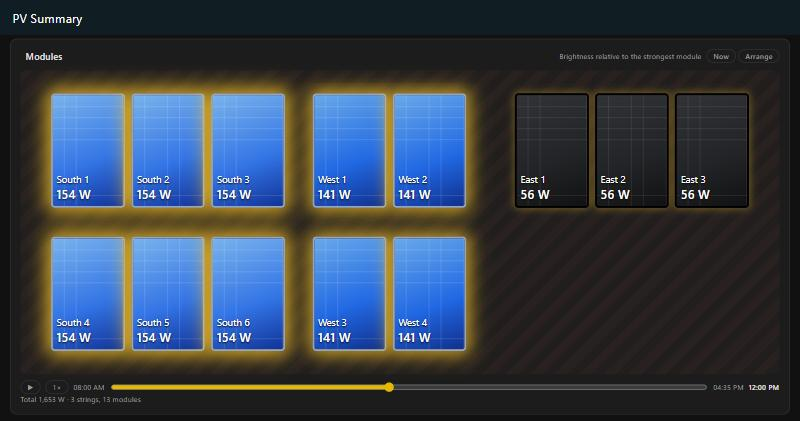
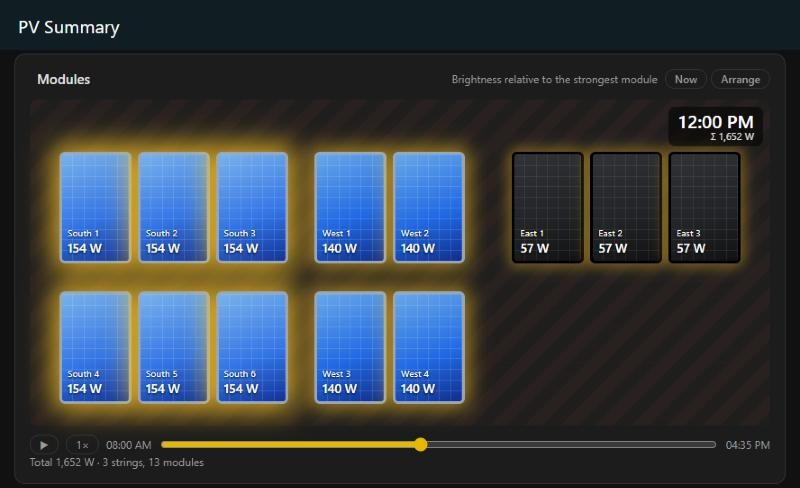
v1.19.2: time badge in the module view

diff --git a/custom_components/pv_overview/frontend/pv-summary-panel.js b/custom_components/pv_overview/frontend/pv-summary-panel.js
@@ -108,7 +108,11 @@ const STYLE = `
   .modtile .mrot { position:absolute; top:3px; right:5px; font-size:1.25em; cursor:pointer; text-shadow:0 1px 3px #000; }
   .modbar { display:flex; align-items:center; gap:8px; margin-top:10px; font-size:12px; }
   .modbar input[type=range] { flex:1; min-width:80px; accent-color:${SUN_COLOR}; }
-  .modbar .modtm { min-width:44px; text-align:right; font-weight:500; }
+  .modclock { position:absolute; top:8px; right:8px; z-index:2; display:flex; flex-direction:column; align-items:flex-end; padding:4px 10px; border-radius:8px; background:rgba(0,0,0,.55); color:#fff; pointer-events:none; line-height:1.15; }
+  .modclock .modtm { font-size:20px; font-weight:600; font-variant-numeric:tabular-nums; }
+  .modclock .modtm.live::before { content:""; display:inline-block; width:8px; height:8px; border-radius:50%; background:#e24b4a; margin-right:6px; vertical-align:middle; }
+  .modclock .modtot { font-size:11px; opacity:.85; font-variant-numeric:tabular-nums; }
+  @media (max-width:500px) { .modclock { top:6px; right:6px; padding:3px 8px; } .modclock .modtm { font-size:15px; } .modclock .modtot { font-size:10px; } }
   .modcard h3 .navbtns { flex-wrap:wrap; }
   .eurv { color:var(--secondary-text-color); font-size:12px; margin-left:8px; }
   .hm-wrap { position:relative; }
@@ -1950,9 +1954,9 @@ class PVSummaryPanel extends HTMLElement {
     const playing = !!this._modTimer;
     const time = (ms) => fmtTime(ms);
     return `<div class="card modcard"><h3><ha-icon icon="mdi:solar-panel"></ha-icon>${TT("Module", "Modules")}<span class="hint modmode"></span>${btns}</h3>
-      <div class="modroof-wrap${edit ? " edit" : ""}"><div class="modroof${edit ? " edit" : " fit"}" data-h="${H.toFixed(4)}"${edit ? ` style="aspect-ratio:1 / ${H.toFixed(4)};background-size:5% ${(5 / H).toFixed(3)}%"` : ""}>${roof}</div></div>
+      <div class="modroof-wrap${edit ? " edit" : ""}"><div class="modroof${edit ? " edit" : " fit"}" data-h="${H.toFixed(4)}"${edit ? ` style="aspect-ratio:1 / ${H.toFixed(4)};background-size:5% ${(5 / H).toFixed(3)}%"` : ""}>${roof}${edit ? "" : `<div class="modclock"><b class="modtm"></b><span class="modtot"></span></div>`}</div></div>
       <div class="modbar"><button class="navbtn" data-nav="mod-play" title="${TT("Tag abspielen", "Play the day")}">${playing ? "❚❚" : "▶"}</button><button class="navbtn modspeed" data-nav="mod-speed" title="${TT("Tempo beim Abspielen", "Playback speed")}">${fmt(this._modSpeed, this._modSpeed < 0.5 ? 2 : this._modSpeed < 1 ? 1 : 0)}×</button>
-        <span class="muted">${time(a)}</span><input type="range" class="modsl" min="${a}" max="${b}" step="${5 * 60000}" value="${this._modT ?? b}"><span class="muted">${time(b)}</span><b class="modtm"></b></div>
+        <span class="muted">${time(a)}</span><input type="range" class="modsl" min="${a}" max="${b}" step="${5 * 60000}" value="${this._modT ?? b}"><span class="muted">${time(b)}</span></div>
       <div class="muted modsum" style="font-size:12px"></div></div>`;
   }
 
@@ -1985,7 +1989,12 @@ class PVSummaryPanel extends HTMLElement {
       el.querySelector(".mv").textContent = fmtW(vals[i]);
     });
     const total = Object.values(pow).reduce((x, y) => x + y, 0);
-    card.querySelector(".modtm").textContent = live ? TT("live", "live") : this._modT !== null ? fmtTime(this._modT) : "";
+    const tm = card.querySelector(".modtm");
+    if (tm) {
+      tm.textContent = live ? TT("live", "live") : this._modT !== null ? fmtTime(this._modT) : "";
+      tm.classList.toggle("live", !!live);
+      card.querySelector(".modtot").textContent = `Σ ${fmtW(total)}`;
+    }
     const sl = card.querySelector(".modsl");
     if (sl && this._modT !== null) sl.value = this._modT;
     const liveBtn = card.querySelector(".modlive");
@@ -2023,9 +2032,13 @@ class PVSummaryPanel extends HTMLElement {
     const maxW = Math.max(...d.map((t) => t.w));
     const scale = Math.min((0.92 / bw) * W, (0.22 / maxW) * W, 180 / maxW);
     const pad = Math.max(12, W * 0.03);
-    roof.style.minHeight = `${Math.round(bh * scale + 2 * pad)}px`;
+    // Oben Platz für die Zeitplakette nur, wenn die (mittig gesetzten) Kacheln bis unter sie reichen würden
+    const clock = roof.querySelector(".modclock");
+    const reach = (W + bw * scale) / 2, clockLeft = clock ? W - 8 - clock.offsetWidth - 6 : W;
+    const top = pad + (clock && reach > clockLeft ? Math.max(0, clock.offsetHeight + 14 - pad) : 0);
+    roof.style.minHeight = `${Math.round(bh * scale + top + pad)}px`;
     const H = roof.clientHeight;
-    const offX = (W - bw * scale) / 2 - minX * scale, offY = (H - bh * scale) / 2 - minY * scale;
+    const offX = (W - bw * scale) / 2 - minX * scale, offY = top + (H - top - pad - bh * scale) / 2 - minY * scale;
     for (const t of d) {
       Object.assign(t.el.style, { left: `${(offX + t.x * scale).toFixed(1)}px`, top: `${(offY + t.y * scale).toFixed(1)}px`, width: `${(t.w * scale).toFixed(1)}px`, height: `${(t.h * scale).toFixed(1)}px` });
       font(t.el, Math.min(t.w, t.h) * scale);

diff --git a/custom_components/pv_overview/const.py b/custom_components/pv_overview/const.py
@@ -17,7 +17,7 @@ CONF_PRICE_EXPORT = "price_export"  # Einspeisevergütung je kWh
 CONF_INVESTMENT = "investment"  # Anschaffungskosten der Anlage
 
 # Eigenes Dashboard (Panel in der Seitenleiste)
-VERSION = "1.19.1"
+VERSION = "1.19.2"
 # Eigene Adresse, damit sie nicht mit einem Lovelace-Dashboard "pv-summary" kollidiert
 PANEL_URL = "pv-summary-panel"
 STATIC_URL = "/pv_summary_static"

diff --git a/README.de.md b/README.de.md
@@ -127,7 +127,7 @@ Die Integration bringt ihr eigenes Dashboard mit. Es erscheint nach dem Einricht
 
   <img src="https://raw.githubusercontent.com/berwil84afk/ha-pv-summary/main/docs/strings.jpg" alt="Tab Strings mit gestapelter Leistung je String" width="640">
 
-- **Module** (unten im Tab Strings): Jedes Modul erscheint als Kachel im Look eines Solarmoduls, die umso heller leuchtet, je mehr Leistung es bringt. Ein String mit mehreren Modulen bekommt eine Kachel je Modul, jede zeigt ihren Anteil an der Leistung des Strings. Die Kacheln haben die Proportionen eines üblichen Moduls (1.134 × 1.762 mm) und in beiden Modulfarben ein feines Zellraster; mit steigender Leistung werden blaue Kacheln von dunkel- zu hellblau und Full-Black-Kacheln von schwarz zu anthrazit, dazu kommt der gelbe Schein. Die Helligkeit richtet sich nach dem stärksten Modul, beim Anordnen umschaltbar auch je String nach seinem eigenen Tageshöchstwert oder für alle Module nach dem höchsten Modulwert des ganzen Tages (beim Abspielen sieht man den Tag so aufgehen und abklingen). Ein Schieber durchläuft den oben gewählten Tag (Sonnenaufgang bis -untergang), ▶ spielt ihn mit 0,25×, 0,5×, 1×, 2× oder 4× Tempo ab (der Knopf daneben schaltet das Tempo um, der Browser merkt es sich), und eine Linie in „Leistung je String“ markiert die gewählte Uhrzeit; **Jetzt** springt zurück zu den Live-Werten. Administratoren ziehen die Kacheln über **Anordnen** so hin, wie sie auf dem Dach liegen, und drehen sie; die Anordnung wird in Home Assistant gespeichert und gilt auf allen Geräten. In der normalen Ansicht wird die Anordnung so vergrößert, dass sie die Karte ausfüllt, und mittig gesetzt, sie passt damit auch in eine halb breite Karte oder aufs Handy; beim Anordnen siehst du sie in echter Größe auf einem Raster, das ab 600 Pixeln Höhe scrollt. Ein Klick auf eine Kachel öffnet den Verlauf ihres Strings.
+- **Module** (unten im Tab Strings): Jedes Modul erscheint als Kachel im Look eines Solarmoduls, die umso heller leuchtet, je mehr Leistung es bringt. Ein String mit mehreren Modulen bekommt eine Kachel je Modul, jede zeigt ihren Anteil an der Leistung des Strings. Die Kacheln haben die Proportionen eines üblichen Moduls (1.134 × 1.762 mm) und in beiden Modulfarben ein feines Zellraster; mit steigender Leistung werden blaue Kacheln von dunkel- zu hellblau und Full-Black-Kacheln von schwarz zu anthrazit, dazu kommt der gelbe Schein. Die Helligkeit richtet sich nach dem stärksten Modul, beim Anordnen umschaltbar auch je String nach seinem eigenen Tageshöchstwert oder für alle Module nach dem höchsten Modulwert des ganzen Tages (beim Abspielen sieht man den Tag so aufgehen und abklingen). Ein Schieber durchläuft den oben gewählten Tag (Sonnenaufgang bis -untergang), ▶ spielt ihn mit 0,25×, 0,5×, 1×, 2× oder 4× Tempo ab (der Knopf daneben schaltet das Tempo um, der Browser merkt es sich), und eine Linie in „Leistung je String“ markiert die gewählte Uhrzeit. Eine Plakette oben rechts in der Modulfläche zeigt diese Uhrzeit (oder „live“) samt der Summe aller Module, so bleibt sie beim Abspielen im Blick; **Jetzt** springt zurück zu den Live-Werten. Administratoren ziehen die Kacheln über **Anordnen** so hin, wie sie auf dem Dach liegen, und drehen sie; die Anordnung wird in Home Assistant gespeichert und gilt auf allen Geräten. In der normalen Ansicht wird die Anordnung so vergrößert, dass sie die Karte ausfüllt, und mittig gesetzt, sie passt damit auch in eine halb breite Karte oder aufs Handy; beim Anordnen siehst du sie in echter Größe auf einem Raster, das ab 600 Pixeln Höhe scrollt. Ein Klick auf eine Kachel öffnet den Verlauf ihres Strings.
 
   <img src="https://raw.githubusercontent.com/berwil84afk/ha-pv-summary/main/docs/modules.jpg" alt="Modulansicht mit leuchtenden Modulkacheln und Zeitschieber" width="640">
 

diff --git a/README.md b/README.md
@@ -127,7 +127,7 @@ The integration brings its own dashboard. After setup it appears automatically a
 
   <img src="https://raw.githubusercontent.com/berwil84afk/ha-pv-summary/main/docs/strings.jpg" alt="Strings tab with stacked power per string" width="640">
 
-- **Modules** (at the bottom of the Strings tab): every module is shown as a solar panel tile that gets lighter and glows more the more power it delivers. A string with several modules gets one tile per module, each showing its share of the string power. Tiles have the proportions of a common module (1,134 × 1,762 mm) and, in both module colours, a fine cell grid; blue tiles go from dark to light blue and full black tiles from black to anthracite as their power rises, plus the yellow glow. Brightness is relative to the strongest module, or, switchable while arranging, each string relative to its own peak of the day, or every module relative to the highest module value of the whole day (so playing the day back shows it rise and fall). A slider runs through the day shown above (from sunrise to sunset), ▶ plays it back at 0.25×, 0.5×, 1×, 2× or 4× speed (the button next to it switches the speed, the browser remembers it), and a line in the power per string chart marks the selected time; **Now** returns to the live values. Administrators can use **Arrange** to drag the tiles to match the roof and rotate them; the arrangement is saved in Home Assistant and applies to all devices. In the normal view the arrangement is scaled to fill the card and centred, so it also fits a half width card or a phone; while arranging you see it on a grid at its real size, and that area scrolls once it gets taller than 600 pixels. Clicking a tile opens the history of its string.
+- **Modules** (at the bottom of the Strings tab): every module is shown as a solar panel tile that gets lighter and glows more the more power it delivers. A string with several modules gets one tile per module, each showing its share of the string power. Tiles have the proportions of a common module (1,134 × 1,762 mm) and, in both module colours, a fine cell grid; blue tiles go from dark to light blue and full black tiles from black to anthracite as their power rises, plus the yellow glow. Brightness is relative to the strongest module, or, switchable while arranging, each string relative to its own peak of the day, or every module relative to the highest module value of the whole day (so playing the day back shows it rise and fall). A slider runs through the day shown above (from sunrise to sunset), ▶ plays it back at 0.25×, 0.5×, 1×, 2× or 4× speed (the button next to it switches the speed, the browser remembers it), and a line in the power per string chart marks the selected time. A badge at the top right of the module area shows that time (or “live”) together with the total power of all modules, so it stays in view while the day plays; **Now** returns to the live values. Administrators can use **Arrange** to drag the tiles to match the roof and rotate them; the arrangement is saved in Home Assistant and applies to all devices. In the normal view the arrangement is scaled to fill the card and centred, so it also fits a half width card or a phone; while arranging you see it on a grid at its real size, and that area scrolls once it gets taller than 600 pixels. Clicking a tile opens the history of its string.
 
   <img src="https://raw.githubusercontent.com/berwil84afk/ha-pv-summary/main/docs/modules.jpg" alt="Module view with glowing panel tiles and a time slider" width="640">
 
